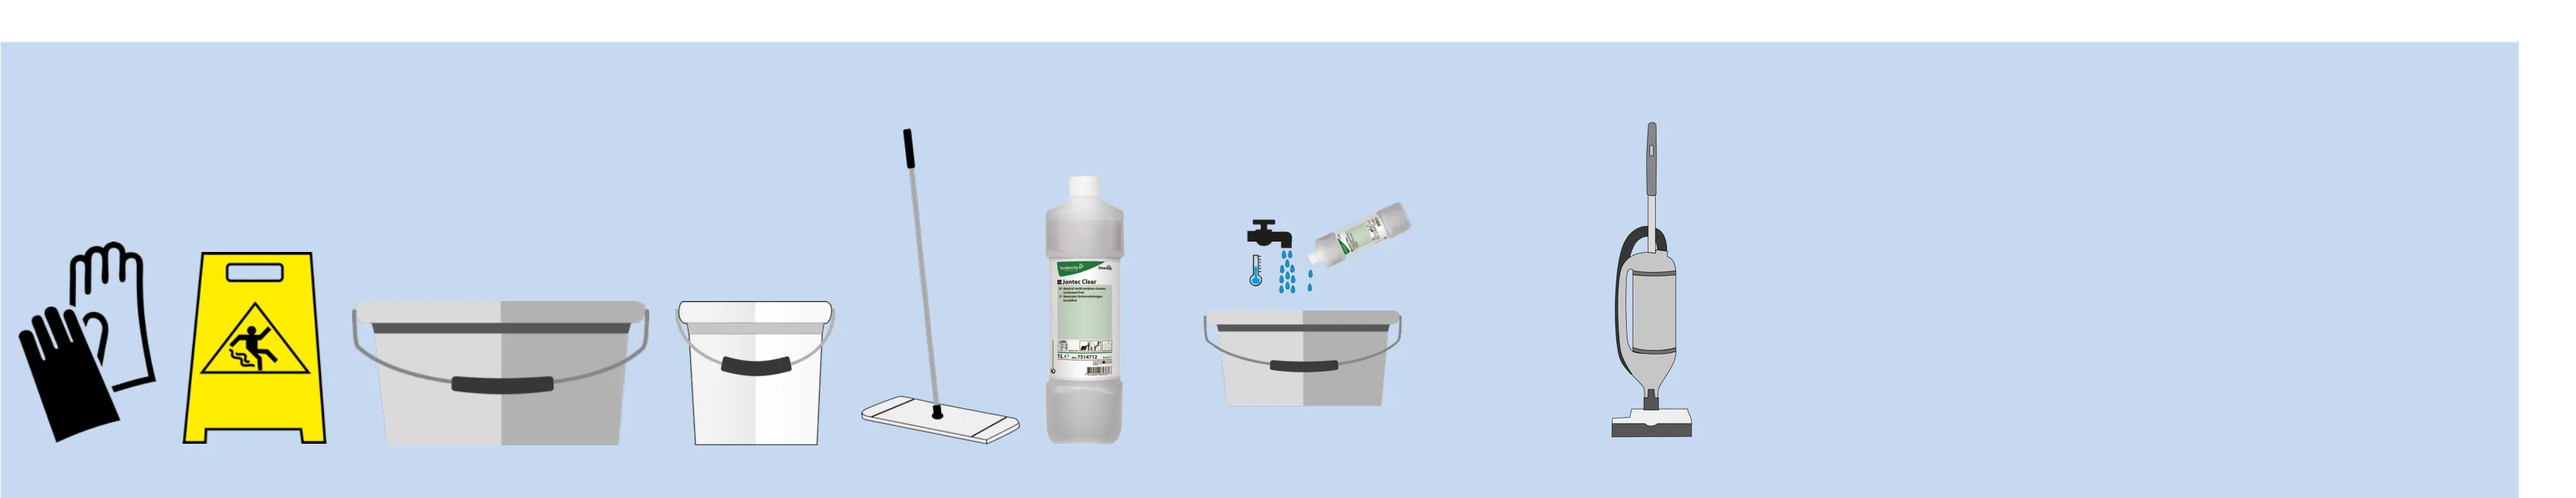
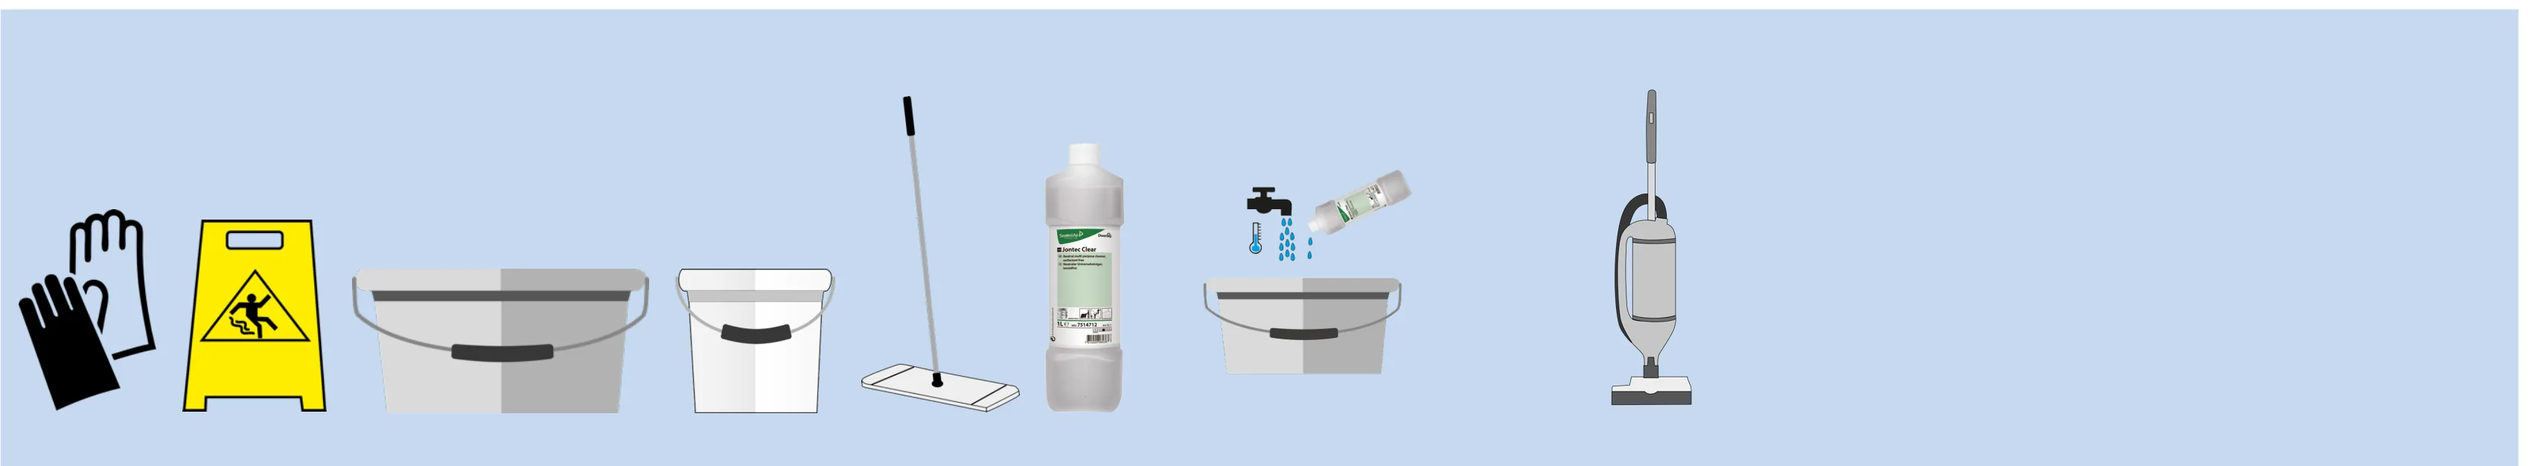
feat(cleaning): tighter-cropped guide tiles, clean ladder, drop dosage block
- re-sliced all ~51 tiles with tight trimming to remove white margins
- ladder image cropped to the three clean pictograms (stray window removed)
- removed the crowded 'dosage & counting' technik block (content already
  covered by the native Principles and Safety sections)

Changed region(s): [[0.0, 0.2125, 0.5618, 0.9105], [0.0, 0.0, 0.9988, 1.0], [0.6243, 0.2125, 0.6867, 0.8802]]

diff --git a/app/lib/cleaning-guide.ts b/app/lib/cleaning-guide.ts
@@ -37,24 +37,19 @@ export interface CleaningCategory {
 export const MATERIALS_ASPECT = 5.16;
 
 export const TECHNIK_BLOCKS: {
-  key: 'ladder' | 'rules' | 'basics';
+  key: 'ladder' | 'rules';
   image: number;
   aspect: number;
 }[] = [
   {
     key: 'rules',
     image: require('../assets/cleaning/technik-rules.webp'),
-    aspect: 5.79,
-  },
-  {
-    key: 'basics',
-    image: require('../assets/cleaning/technik-basics.webp'),
-    aspect: 5.09,
+    aspect: 5.81,
   },
   {
     key: 'ladder',
     image: require('../assets/cleaning/technik-ladder.webp'),
-    aspect: 2.18,
+    aspect: 4.12,
   },
 ];
 
